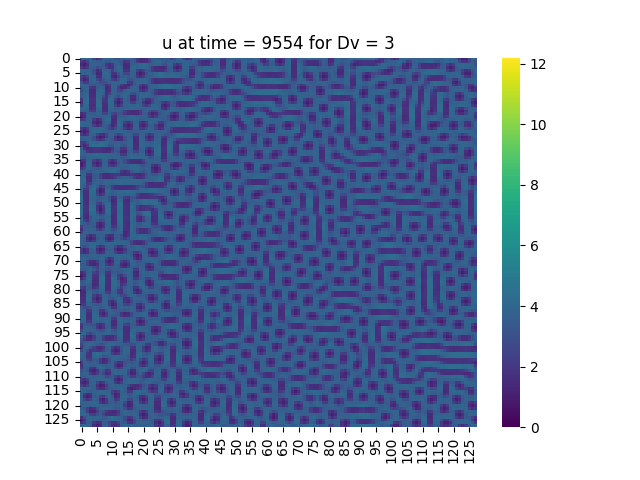
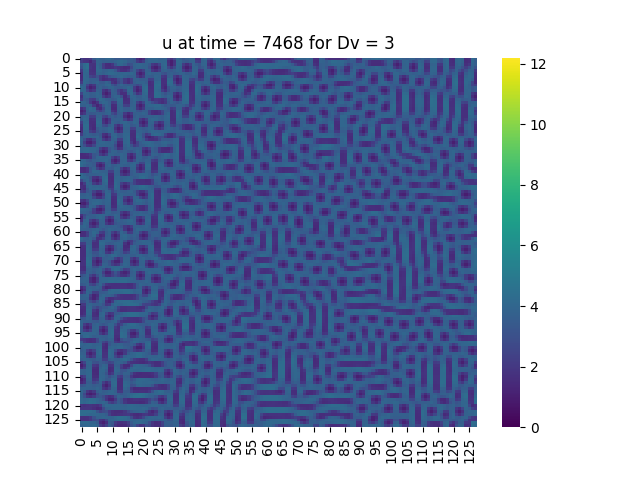
Randomness going in both directions

Changed region(s): [[0.125, 0.0625, 0.75, 0.9062]]

diff --git a/calcualtion.py b/calcualtion.py
@@ -19,8 +19,8 @@ def initiation(L, u, v):
     v0 = np.zeros((L, L))
     for i in range(L):
         for j in range(L):
-            u0[i, j] = u * (1 + 0.1 * np.random.rand())
-            v0[i, j] = v * (1 + 0.1 * np.random.rand())
+            u0[i, j] = u * (1 + 0.1 * (2*np.random.rand() - 1))
+            v0[i, j] = v * (1 + 0.1 * (2*np.random.rand() - 1))
     return u0, v0
 
 def calculate_k_values(DA, J11, J22, DI, detJ):
